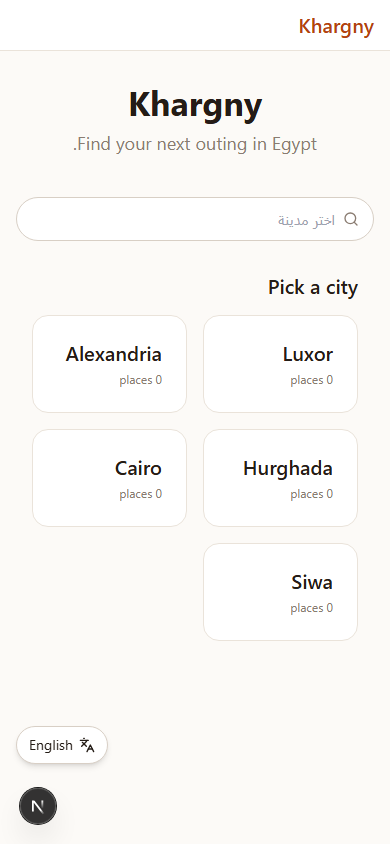
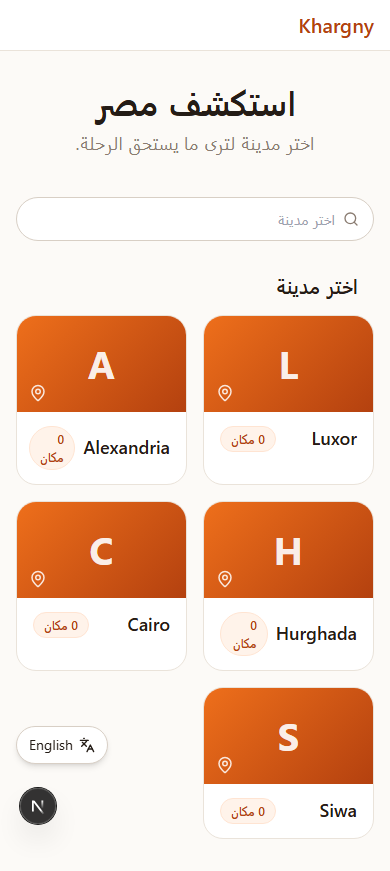
fix(frontend): unify + localize the city page
- SiteHeader on desktop (full nav) / ExplorerHeader on mobile — no more headerless
  maze page. Localized: city name, places-found count, search placeholder, empty +
  error states, category chip labels (by locale). Places now render as a responsive
  GRID on desktop (was a cramped horizontal scroll). Added explorer.* dict keys.

diff --git a/src/app/explorer/[citySlug]/page.tsx b/src/app/explorer/[citySlug]/page.tsx
@@ -11,6 +11,7 @@ import * as React from "react";
 import { useParams, useRouter } from "next/navigation";
 import { useState, useMemo } from "react";
 import { ExplorerHeader } from "@/components/explorer/ExplorerHeader";
+import { SiteHeader } from "@/components/ds/SiteHeader";
 import { SearchBar } from "@/components/explorer/SearchBar";
 import { CategoryChip } from "@/components/ds/CategoryChip";
 import { LoadingSkeleton } from "@/components/explorer/LoadingSkeleton";
@@ -24,7 +25,7 @@ import { useSearchPlaces } from "@/lib/api/hooks/use-search";
 import { useI18n } from "@/i18n/LocaleProvider";
 
 export default function CityExplorerPage() {
-  const { t } = useI18n();
+  const { t, locale } = useI18n();
   const params = useParams();
   const router = useRouter();
   const citySlug = params.citySlug as string;
@@ -58,11 +59,16 @@ export default function CityExplorerPage() {
         fontFamily: "var(--font-body)",
       }}
     >
-      <ExplorerHeader
-        cities={cities || []}
-        currentCitySlug={citySlug}
-        onCityChange={handleCityChange}
-      />
+      <div className="khg-only-desktop">
+        <SiteHeader active="explore" />
+      </div>
+      <div className="khg-only-mobile">
+        <ExplorerHeader
+          cities={cities || []}
+          currentCitySlug={citySlug}
+          onCityChange={handleCityChange}
+        />
+      </div>
 
       <main
         style={{
@@ -82,7 +88,7 @@ export default function CityExplorerPage() {
               margin: 0,
             }}
           >
-            {currentCity?.name ?? "Loading…"}
+            {currentCity ? (locale === "ar" ? currentCity.name : currentCity.nameEn || currentCity.name) : t("common.loading")}
           </h1>
           {placesData && (
             <p
@@ -92,7 +98,7 @@ export default function CityExplorerPage() {
                 marginTop: "var(--space-1)",
               }}
             >
-              {placesData.items.length} places found
+              {t("explorer.placesFound", { count: placesData.items.length })}
             </p>
           )}
         </div>
@@ -106,7 +112,7 @@ export default function CityExplorerPage() {
           }}
         >
           <div style={{ flex: 1 }}>
-            <SearchBar value={search} onChange={setSearch} />
+            <SearchBar value={search} onChange={setSearch} placeholder={t("common.searchPlaces")} />
           </div>
           <FilterPanel
             isOpen={filtersOpen}
@@ -135,7 +141,7 @@ export default function CityExplorerPage() {
             {categories.map((cat) => (
               <CategoryChip
                 key={cat.id}
-                label={cat.nameAr || cat.nameEn || cat.slug}
+                label={locale === "ar" ? cat.nameAr || cat.nameEn || cat.slug : cat.nameEn || cat.nameAr || cat.slug}
                 active={activeCategory === cat.id}
                 onClick={() => setActiveCategory(activeCategory === cat.id ? null : cat.id)}
               />
@@ -146,16 +152,9 @@ export default function CityExplorerPage() {
         {isLoading ? (
           <LoadingSkeleton count={6} />
         ) : isError ? (
-          <ErrorState message="Failed to load places" onRetry={() => refetch()} />
+          <ErrorState message={t("explorer.loadFailed")} onRetry={() => refetch()} />
         ) : displayedPlaces && displayedPlaces.length > 0 ? (
-          <div
-            style={{
-              display: "flex",
-              gap: "var(--space-4)",
-              overflowX: "auto",
-              paddingBottom: "var(--space-4)",
-            }}
-          >
+          <div className="khg-place-grid">
             {displayedPlaces.map((place) => (
               <div
                 key={place.id}
@@ -163,18 +162,20 @@ export default function CityExplorerPage() {
                 style={{ cursor: "pointer" }}
               >
                 <PlaceCard
-                  size="sm"
+                  size="md"
                   placeId={place.id}
-                  title={place.name}
+                  title={locale === "ar" ? place.name : place.nameEn || place.name}
                   area={place.address || ""}
-                  rating={place.rating > 0 ? place.rating.toString() : undefined}
-                  onToggleFavorite={() => {
-                    // no-op callback — `placeId` above wires the heart to the saved-places
-                    // backend (TASK-0009) automatically. The callback is unused in this path.
-                  }}
+                  rating={Number(place.rating) > 0 ? Number(place.rating).toFixed(1) : undefined}
+                  onToggleFavorite={() => {}}
                 />
               </div>
             ))}
+            <style>{`
+              .khg-place-grid { display:grid; grid-template-columns:repeat(2,1fr); gap:var(--space-4); }
+              @media (min-width:640px){ .khg-place-grid { grid-template-columns:repeat(3,1fr); } }
+              @media (min-width:1024px){ .khg-place-grid { grid-template-columns:repeat(4,1fr); } }
+            `}</style>
           </div>
         ) : (
           <div
@@ -191,7 +192,7 @@ export default function CityExplorerPage() {
                 margin: 0,
               }}
             >
-              {search ? `No results for "${search}"` : "No places found in this city"}
+              {search ? t("explorer.searchNoResults", { q: search }) : t("explorer.noPlacesInCity")}
             </p>
           </div>
         )}

diff --git a/src/i18n/dictionaries.ts b/src/i18n/dictionaries.ts
@@ -62,6 +62,10 @@ const en = {
     clearFilters: "Clear filters",
     noResults: "No places match your filters.",
     placeCount: "{count} places",
+    placesFound: "{count} places found",
+    noPlacesInCity: "No places found in this city yet.",
+    loadFailed: "Failed to load places.",
+    searchNoResults: "No results for \"{q}\"",
     back: "Back",
     share: "Share",
     directions: "Get directions",
@@ -162,6 +166,10 @@ const ar: typeof en = {
     clearFilters: "مسح التصفية",
     noResults: "لا توجد أماكن مطابقة.",
     placeCount: "{count} مكان",
+    placesFound: "{count} مكان",
+    noPlacesInCity: "لا توجد أماكن في هذه المدينة بعد.",
+    loadFailed: "تعذّر تحميل الأماكن.",
+    searchNoResults: "لا نتائج لـ \"{q}\"",
     back: "رجوع",
     share: "مشاركة",
     directions: "الاتجاهات",